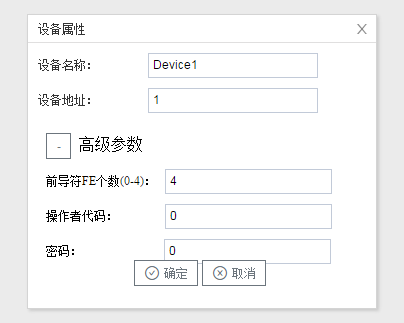
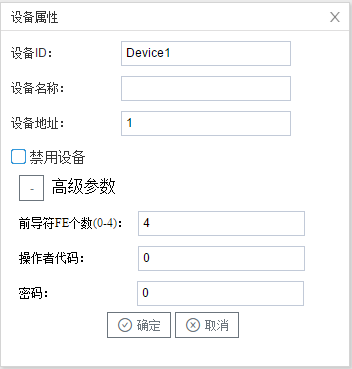
设备页面更新

diff --git a/行业标准/DLT698.45/新建设备.md b/行业标准/DLT698.45/新建设备.md
@@ -14,7 +14,9 @@
 
 <center>图2-4-5  设备配置</center>
 
-- 设备名称：可自定义，默认为"Device1"，同一通道下，设备名称不可重复。
+- 设备ID：可自定义，默认为"Device1"，同一通道下，设备ID不可重复。
+
+- 设备名称：可自定义，可不填。
 
 - 设备地址：电表的通讯地址，也称为表号。**如果设备地址未填入正确的表号，电表不会给网关发送回复报文。**
 
@@ -23,8 +25,9 @@
   Tx: FE FE FE FE 68 17 00 43 45 AA AA AA AA AA AA 11 53 4E 05 01 01 40 01 02 00 00 C6 07 16 
 Rx: FE FE FE FE 68 21 00 C3 05 91 17 77 16 00 01 11 B9 9C 85 01 01 40 01 02 00 01 09 06 01 00 16 77 17 91 00 00 B5 10 16 
   
+
 返回报文中01 00 16 77 17 91就是表号。
-  
+
 配置工具软件，数据项提供了读电表地址，也可以编辑该数据项读取电表地址。
 
 配置完成后，"Channel1"下会多出一个新增设备”Device1"，如下图2-4-6所示。

diff --git a/行业标准/IEC104/新建设备.md b/行业标准/IEC104/新建设备.md
@@ -14,8 +14,9 @@
 
 <center>图2-11-5 设备配置</center>
 
-- 设备名称：可自定义，默认为"Device1"，同一通道下，设备名称不可重复。
-- 公共地址：输入设备的公共地址
+- "设备ID"：可自定义，默认为"Device1"，同一通道下，设备ID不可重复。
+- "设备名称"：可自定义，可不填。
+- "公共地址"：输入设备的公共地址
 
 配置完成后，"Channel1"下会多出一个新增设备"Device1"，如下图2-10-6所示。
 

diff --git a/行业标准/DLT645/新建设备.md b/行业标准/DLT645/新建设备.md
@@ -14,7 +14,9 @@
 
 <center>图2-4-5  设备配置</center>
 
-- 设备名称：可自定义，默认为"Device1"，同一通道下，设备名称不可重复。
+- 设备ID：可自定义，默认为"Device1"，同一通道下，设备ID不可重复。
+
+- 设备名称：可自定义，可不填。
 
 - 设备地址：电表的通讯地址，也称为表号。DLT645标准协议定义通信地址为12位数字，**不足12位时，配置工具可在高位自动补”0“**。
 
